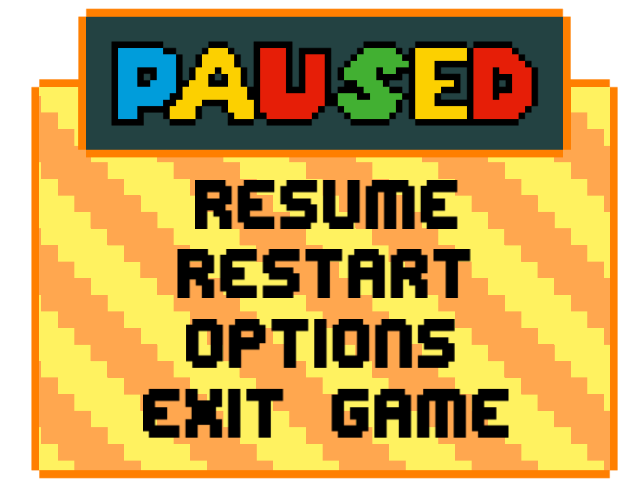
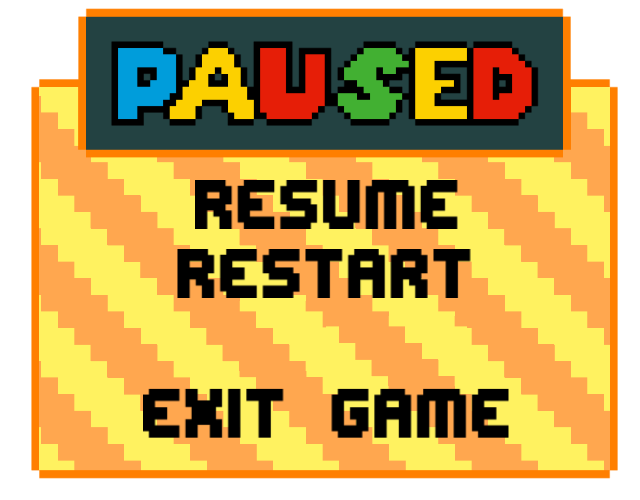
piel

Changed region(s): [[0.2812, 0.63, 0.7188, 0.75]]

diff --git a/core/src/com/party/Game.java b/core/src/com/party/Game.java
@@ -241,8 +241,8 @@ public class Game extends ApplicationAdapter {
         Minigame[] minigames = new Minigame[]{new DodgeMinigame(), new SpamMinigame(), new ReactionMinigame(), new DobbelMinigame()};
 
         int rnd = new Random().nextInt(minigames.length);
-        //Minigame randomGame = minigames[rnd];
-        Minigame randomGame = new DobbelMinigame();
+        Minigame randomGame = minigames[rnd];
+        //Minigame randomGame = new DobbelMinigame();
         currentMenu = new MinigamePreviewMenu(randomGame);
         randomGame.addPlayer(player1);
         randomGame.addPlayer(player2);

diff --git a/core/src/com/party/screen/menu/impl/PauseMenu.java b/core/src/com/party/screen/menu/impl/PauseMenu.java
@@ -21,7 +21,7 @@ public class PauseMenu extends Menu {
         sound.play();
         setBackground(new Texture(Gdx.files.internal("menu/pausemenu.png")));
         resumeButton = new Rectangle(85, 157, 277, 52);
-        exitButton = new Rectangle(126, 367, 392, 56);
+        exitButton = new Rectangle(126, 367, 392, 56*2);
         restartButton = new Rectangle(177, 229, 292, 51);
         optionsButton = new Rectangle(185, 300, 271, 48);
     }

diff --git a/core/src/com/party/minigame/impl/DobbelMinigame.java b/core/src/com/party/minigame/impl/DobbelMinigame.java
@@ -112,12 +112,12 @@ public class DobbelMinigame extends Minigame {
 
     @Override
     public String getName() {
-        return "Reaction Game";
+        return "Gamble Game";
     }
 
     @Override
     public String getDescription() {
-        return "Press your button when,you see the image";
+        return "Press the button to gamble,get the highest score to win!";
     }
 
     @Override

diff --git a/core/src/com/party/board/TileManager.java b/core/src/com/party/board/TileManager.java
@@ -122,9 +122,9 @@ public class TileManager {
         //einde
 
 
-        for (Tile value : tileMap.values()) {
-            value.setSpecial(true);
-        }
+      //  for (Tile value : tileMap.values()) {
+      //      value.setSpecial(true);
+      //  }
     }
 
     private void addTile(Tile tile){
